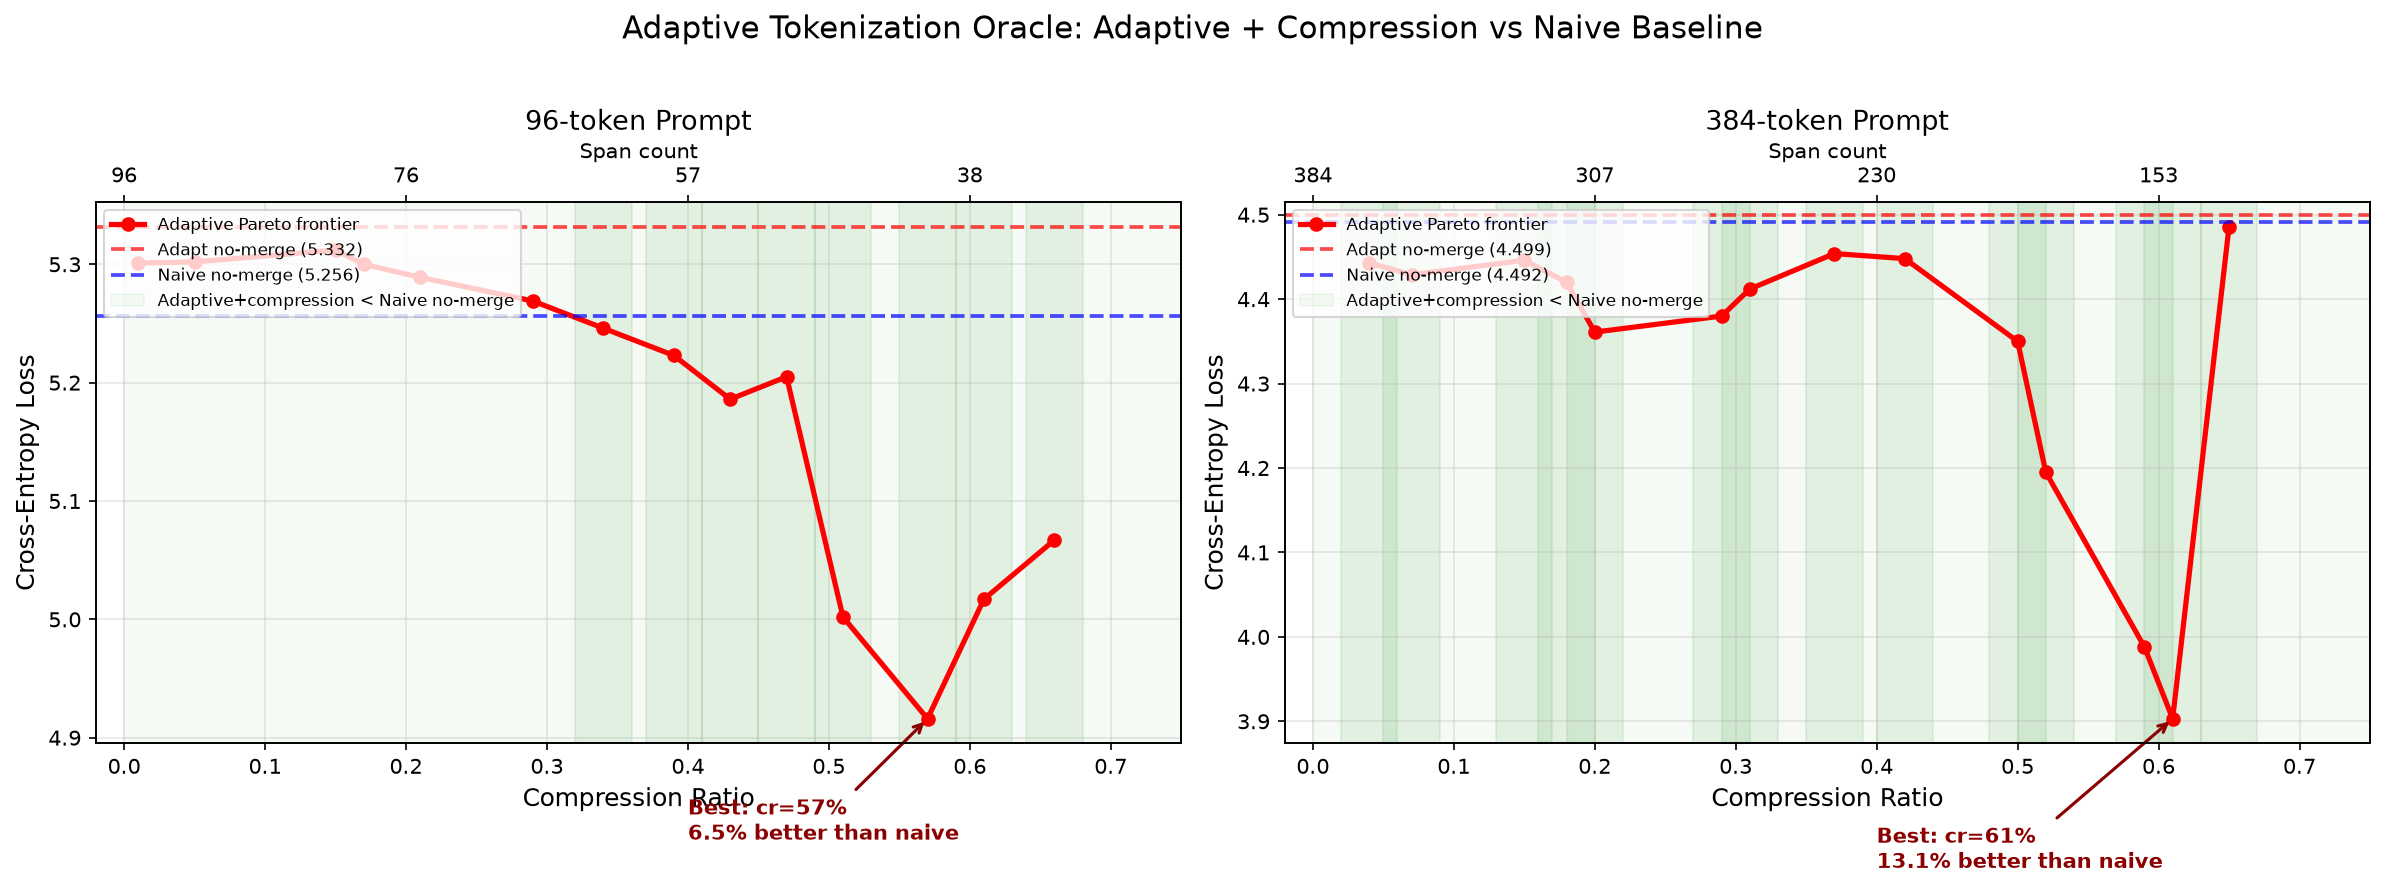
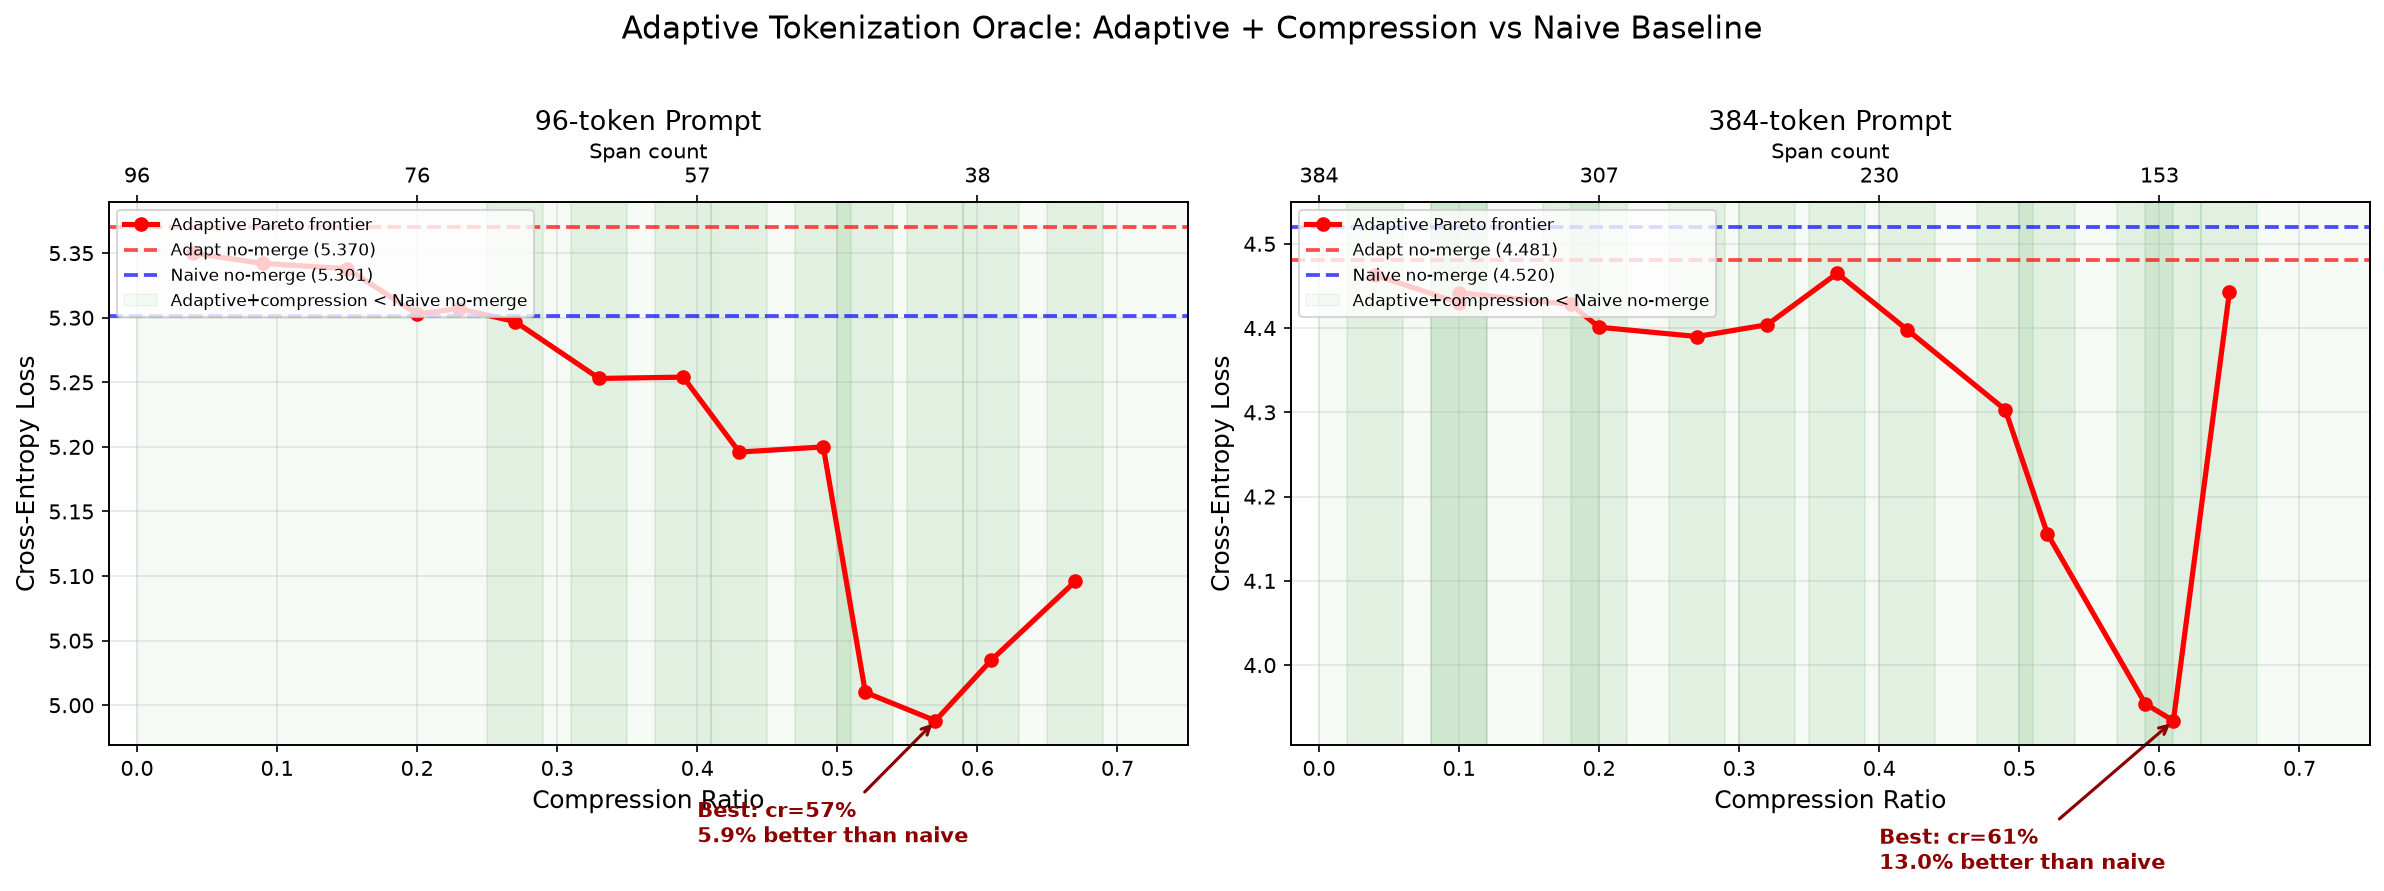
fixed bugs

diff --git a/src/boundary_sampling.py b/src/boundary_sampling.py
@@ -64,19 +64,27 @@ def sample_boundaries_grpo(predictor, input_ids, attention_mask=None, num_sample
     return boundaries
 
 
-def compute_grpo_log_probs(predictor, input_ids, boundaries, attention_mask=None):
-    """Compute log-probs of given boundaries under the SAME biased sampling
-    distribution used by sample_boundaries_grpo. Must be called OUTSIDE
-    torch.no_grad() so that predictor gradients flow through to the GRPO loss.
+def compute_grpo_log_probs(predictor, input_ids, boundaries, attention_mask=None, max_span_len=4):
+    """Compute per-position log-probs and valid-action mask for GRPO.
+    Must be called OUTSIDE torch.no_grad() so predictor gradients flow.
 
-    Returns (S, B) tensor of log-probs per sample per prompt.
+    Returns:
+      log_probs: (S, B, L) per-position log-prob of sampled action
+      valid_mask: (S, B, L) True for positions that contribute to policy gradient.
+      logit_reg: scalar L1 penalty on logits to prevent saturation (logits → ±∞)
     """
     S, B, L = boundaries.shape
     device = input_ids.device
 
     logits = predictor.forward(input_ids, attention_mask)
-    biases = torch.tensor(GRPO_BIASES[:S], device=device)
-    log_probs = torch.zeros(S, B, device=device)
+    logit_reg = logits.abs().mean()  # prevent saturation to ±∞
+    if S == 1:
+        biases = torch.tensor([0.0], device=device)
+    else:
+        biases = torch.tensor(GRPO_BIASES[:S], device=device)
+
+    log_probs = torch.zeros(S, B, L, device=device)
+    valid_mask = torch.zeros(S, B, L, dtype=torch.bool, device=device)
 
     for k in range(S):
         bias = biases[k]
@@ -94,18 +102,27 @@ def compute_grpo_log_probs(predictor, input_ids, boundaries, attention_mask=None
         log_p_merge = torch.log((1.0 - p_boundary).clamp_min(1e-8))
 
         per_pos = bnd_k * log_p_bound + merge_k * log_p_merge
+        log_probs[k] = per_pos
 
+        # Reconstruct which positions were deterministic (forced by max_span_len)
+        merged_count = torch.zeros(B, L, dtype=torch.long, device=device)
+        valid = torch.ones(B, L, dtype=torch.bool, device=device)
         if attention_mask is not None:
-            mask = attention_mask.float()
-            mask[:, 0] = 0.0  # exclude forced first boundary
-            per_pos = per_pos * mask
-            norm = mask.sum(dim=-1).clamp_min(1)
-        else:
-            norm = L
+            valid = attention_mask.bool()
+        valid[:, 0] = False  # position 0 is always forced
 
-        log_probs[k] = per_pos.sum(dim=-1) / norm
+        for pos in range(1, L):
+            is_forced = merged_count[:, pos - 1] >= max_span_len - 1
+            valid[:, pos] = valid[:, pos] & (~is_forced)
+            merged_count[:, pos] = torch.where(
+                boundaries[k, :, pos],
+                torch.zeros(B, dtype=torch.long, device=device),
+                merged_count[:, pos - 1] + 1,
+            )
 
-    return log_probs
+        valid_mask[k] = valid
+
+    return log_probs, valid_mask, logit_reg
 
 
 def boundaries_to_log_probs(predictor, input_ids, boundaries, attention_mask=None):

diff --git a/plot_oracle.py b/plot_oracle.py
@@ -2,17 +2,17 @@ import matplotlib
 matplotlib.use("Agg")
 import matplotlib.pyplot as plt
 
-# 96-token data (from oracle run 2026-06-22, bugs fixed)
-f96_crs =    [0.01, 0.05, 0.15, 0.17, 0.21, 0.29, 0.34, 0.39, 0.43, 0.47, 0.51, 0.57, 0.61, 0.66]
-f96_losses = [5.301, 5.302, 5.312, 5.300, 5.289, 5.269, 5.246, 5.223, 5.186, 5.205, 5.002, 4.916, 5.017, 5.067]
-f96_naive  = 5.2564
-f96_adapt  = 5.3319
+# 96-token data
+f96_crs =    [0.04, 0.09, 0.15, 0.20, 0.23, 0.27, 0.33, 0.39, 0.43, 0.49, 0.52, 0.57, 0.61, 0.67]
+f96_losses = [5.350, 5.342, 5.338, 5.303, 5.307, 5.297, 5.253, 5.254, 5.196, 5.200, 5.010, 4.988, 5.035, 5.096]
+f96_naive  = 5.3015
+f96_adapt  = 5.3704
 
-# 384-token data (from oracle run 2026-06-22, bugs fixed)
-f384_crs =    [0.04, 0.07, 0.15, 0.18, 0.20, 0.29, 0.31, 0.37, 0.42, 0.50, 0.52, 0.59, 0.61, 0.65]
-f384_losses = [4.443, 4.429, 4.446, 4.420, 4.361, 4.380, 4.412, 4.454, 4.448, 4.350, 4.195, 3.988, 3.903, 4.486]
-f384_naive = 4.4918
-f384_adapt = 4.4991
+# 384-token data
+f384_crs =    [0.04, 0.10, 0.10, 0.18, 0.20, 0.27, 0.32, 0.37, 0.42, 0.49, 0.52, 0.59, 0.61, 0.65]
+f384_losses = [4.463, 4.430, 4.442, 4.428, 4.401, 4.390, 4.404, 4.465, 4.398, 4.303, 4.156, 3.954, 3.934, 4.443]
+f384_naive = 4.5202
+f384_adapt = 4.4812
 
 fig, (ax1, ax2) = plt.subplots(1, 2, figsize=(16, 6))
 

diff --git a/src/hybrid_train.py b/src/hybrid_train.py
@@ -16,11 +16,11 @@ from tqdm import tqdm
 from .data import create_dataloader, TOTAL_TOKENS
 from .model import AdaptiveGPT2Model
 from .boundary_predictor import BoundaryPredictor
-from .boundary_sampling import sample_boundaries_grpo, boundaries_to_log_probs
+from .boundary_sampling import sample_boundaries_grpo, boundaries_to_log_probs, compute_grpo_log_probs
 
 
 BETA = 0.6
-LOSS_CEILING = 2.40  # no_merge baseline (2.288) + 5% margin
+LOSS_CEILING = 2.19  # no_merge baseline (2.085) + 5% margin
 K_SAMPLES = 128
 NUM_PROMPTS_ORACLE = 2000
 BCE_EPOCHS = 5
@@ -376,16 +376,18 @@ def stage3_train_grpo(
         std_r = rewards.std(dim=0, keepdim=True) + 1e-8
         advantages = (rewards - mean_r) / std_r
 
-        # Compute on-policy log-probs WITH gradient tracking (outside no_grad)
-        from .boundary_sampling import compute_grpo_log_probs
-        log_probs_per = compute_grpo_log_probs(
-            predictor, prompt_ids, boundaries, attention_mask=prompt_mask,
+        # Compute on-policy per-position log-probs WITH gradient tracking
+        log_probs, valid_mask, logit_reg = compute_grpo_log_probs(
+            predictor, prompt_ids, boundaries, attention_mask=prompt_mask, max_span_len=4,
         )
 
-        policy_loss = -(log_probs_per.flatten() * advantages.flatten()).mean()
+        # Policy loss: mean over all valid actions across all samples and prompts
+        weighted = log_probs * valid_mask.float() * advantages.unsqueeze(-1)
+        policy_loss = -weighted.sum() / valid_mask.float().sum().clamp_min(1)
+        total_loss = policy_loss + 0.001 * logit_reg
 
         optimizer.zero_grad()
-        policy_loss.backward()
+        total_loss.backward()
         torch.nn.utils.clip_grad_norm_(predictor.parameters(), 1.0)
         optimizer.step()
 

diff --git a/README.md b/README.md
@@ -55,10 +55,10 @@ Figure 1: Sweep of Adaptive Compression
 
 | Metric | 96-token prompt | 384-token prompt |
 |--------|----------------|------------------|
-| Naive no-merge | 5.26 | 4.49 |
-| Adaptive no-merge | 5.33 | 4.50 |
-| **Adaptive best (with compression)** | **4.92 (cr=57%)** | **3.90 (cr=61%)** |
-| Gain vs Naive | **+6.5% better** | **+13.1% better** |
+| Naive no-merge | 5.30 | 4.52 |
+| Adaptive no-merge | 5.37 | 4.48 |
+| **Adaptive best (with compression)** | **4.99 (cr=57%)** | **3.93 (cr=61%)** |
+| Gain vs Naive | **+5.9% better** | **+13.0% better** |
 
 Key finding from this experiment was that smartly compressing the input can *beat* no compression. Compression acts as a noise filter, improving prediction signal. Green zone extends to at least 65-70%.
 
@@ -75,10 +75,10 @@ Figure 2: Architecture diagram for Adaptive Tokenization
 
 | Model | No Merge (loss/ppl/bpb) | Random Merge (loss/ppl/bpb) | CORE ↓ |
 |-------|------------------------|-----------------------------|--------|
-| **Naive** | 1.968 / 7.16 / 2.84 | 2.501 / 12.20 / 3.61 | 1.271 |
-| **Adaptive** | 2.085 / 8.05 / 3.01 | 2.195 / 8.98 / 3.17 | **1.053** |
+| **Naive** | 1.669 / 5.30 / 0.524 | 2.416 / 11.20 / 0.759 | 1.448 |
+| **Adaptive** | 1.806 / 6.09 / 0.568 | 2.003 / 7.41 / 0.629 | **1.109** |
 
-CORE = merged_loss / no_merge_loss. Lower = less degradation. Adaptive reduces compression penalty from 27.1% → 5.3%.
+CORE = merged_loss / no_merge_loss. Lower = less degradation. Adaptive reduces compression penalty from 44.8% → 10.9%. bpb = true bits-per-byte.
 
 ### Pre vs Post Training of boundary predictor
 